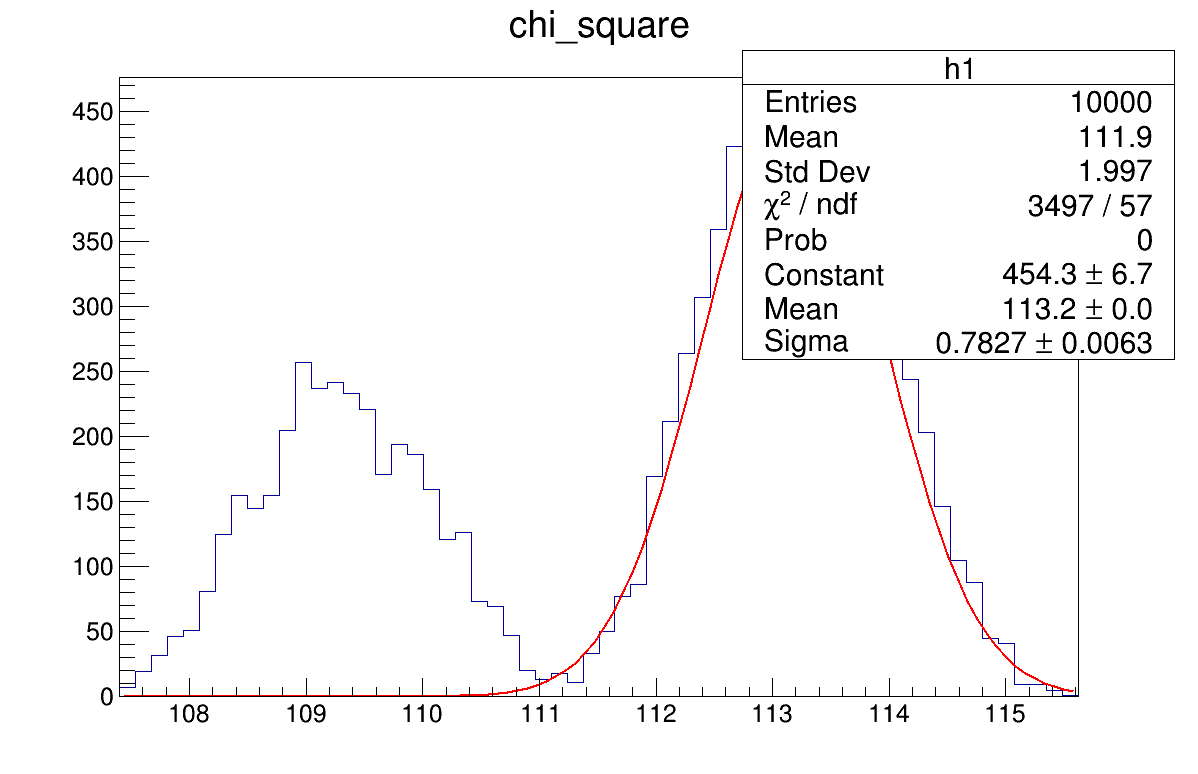
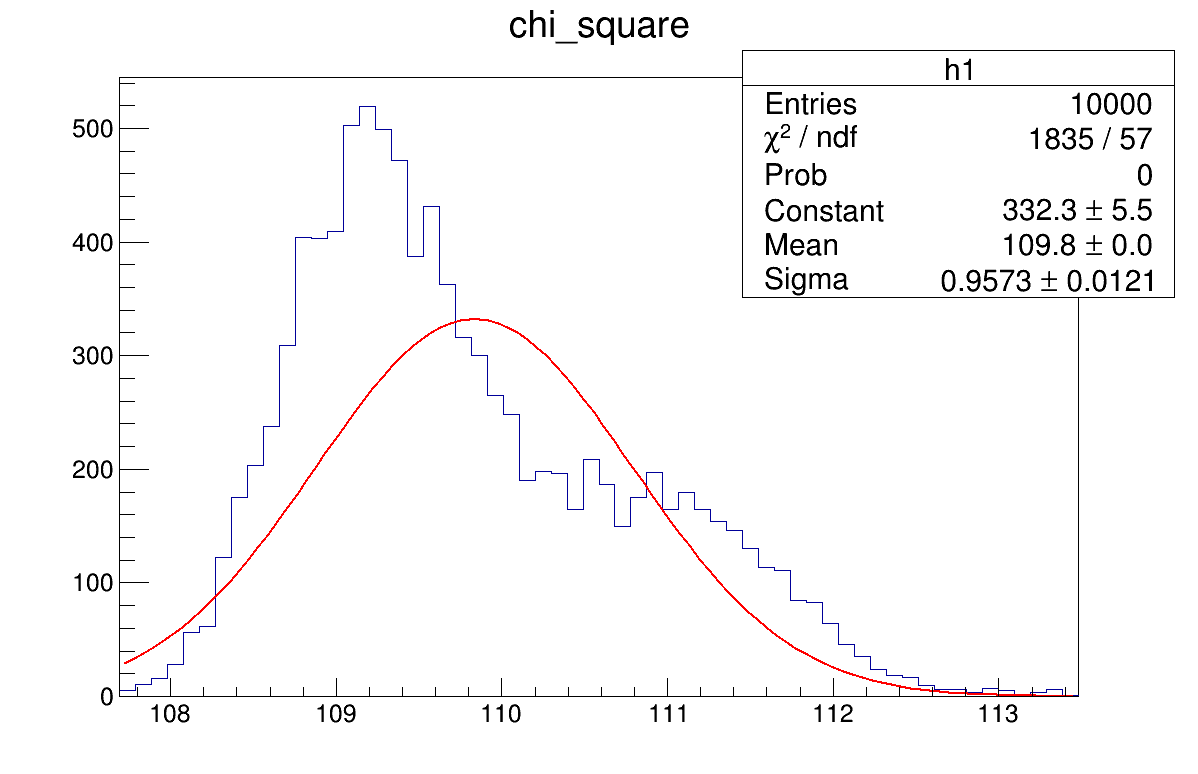
monte carlo now works!

diff --git a/monte_carlo/estimator.cpp b/monte_carlo/estimator.cpp
@@ -27,7 +27,7 @@ std:0.0109906
 
 using namespace std;
 
-double time_offset = 0.000;
+double time_offset = 0.00;
 
 
 void histo_populate(TH1F * h, int n_tot, double tau){
@@ -69,19 +69,20 @@ int main(int argc, char** argv)
 
     std::vector<double> tau;
     std::vector<double> chi_square;
-    int experiments = 100000;
-    int counts = 5000;
-
+    int experiments = 10000;
+    int counts = 100000;
+    gStyle->SetOptStat(11);
+    gStyle->SetOptFit(1111);
     TRandom3 * r = new TRandom3();
     int n = r->Poisson(counts);
 
     TF1 * func = new TF1("fun", "[0]*TMath::Exp(-x[0]/[1])",0.0+time_offset, 11);
-    func->SetParameter(0,counts/2);
-    func->SetParameter(1,2.1);
+    func->SetParameter(0,n/2);
+    func->SetParameter(1,2.100);
     // func->SetParameter(2,2.2);
     // func->SetParLimits(2,0.0,100);
 
-    // TApplication* myApp = new TApplication("myApp", NULL, NULL);
+    TApplication* myApp = new TApplication("myApp", NULL, NULL);
 
     // double f_mu_pos = r->Gaus(0.56075, 0.00087);
     double f_mu_pos = 0.56075;
@@ -89,12 +90,12 @@ int main(int argc, char** argv)
     double f_mu_neg = 1 - f_mu_pos;
 
     for(int i=0;i<experiments;i++){
-        TCanvas* cnv = new TCanvas(("myC1" + to_string(i)).c_str(),"myC1",10,10,1200,800);
+        // TCanvas* cnv1 = new TCanvas(("myC1" + to_string(i)).c_str(),"myC1",10,10,1200,800);
         // generate each pseudoexperiment
         // in a single experiment we populate an histogram with the histo_populate
         // method, we then fit this histogram in order to estimate tau,
         double min=0, max=11;
-        int bin = 20;
+        int bin = 100;
         TH1F *h = new TH1F("h", "example histogram",bin,min,max);
 
 
@@ -102,8 +103,8 @@ int main(int argc, char** argv)
 
 
         int mu_pos = (int) r->Binomial(n, f_mu_pos);
-        // int mu_neg = (int) r->Binomial(n, f_mu_neg);
-        int mu_neg = n - mu_pos;
+        int mu_neg = (int) r->Binomial(n, f_mu_neg);
+        // int mu_neg = n - mu_pos;
 
         // cout << mu_pos << " " << mu_neg << endl;
 
@@ -115,8 +116,9 @@ int main(int argc, char** argv)
         // histo_populate_background(h, 0.2*n);
 
 
-        // cnv->cd();
+        // cnv1->cd();
         // h->Draw();
+
         TFitResultPtr result = h->Fit(func, "SQR");
         if(result->Status()!=0){
             cout << "Error!" << endl;
@@ -128,7 +130,8 @@ int main(int argc, char** argv)
         chi_square.push_back(result->Chi2());
 
         delete h;
-
+        // cnv1->Modified();
+        // cnv1->Update();
     }
 
     double mu = mean(tau);
@@ -136,12 +139,12 @@ int main(int argc, char** argv)
 
     cout << "Tau statistics:\nmu:" << mu << "\nstd:" << std << endl;
 
-    TApplication* myApp = new TApplication("myApp", NULL, NULL);
+
     TCanvas* cnv = new TCanvas("myC1","myC1",10,10,1200,800);
     gStyle->SetOptFit(1111);
     double min = *min_element(tau.begin(), tau.end());
     double max = *max_element(tau.begin(), tau.end());
-    TH1F *h = new TH1F("h", "tau_MC",40, min, max);
+    TH1F *h = new TH1F("h", "tau_MC",50, min, max);
 
     for(double t: tau)   h->Fill(t);
 
@@ -152,18 +155,18 @@ int main(int argc, char** argv)
     cnv->Update();
     cnv->SaveAs("images/tau_MC.png");
 
-    // TCanvas* cnv1 = new TCanvas("myC2","myC2",10,10,1200,800);
-    // gStyle->SetOptFit(1111);
-    // double min1 = *min_element(chi_square.begin(), chi_square.end());
-    // double max1 = *max_element(chi_square.begin(), chi_square.end());
-    // TH1F *h1 = new TH1F("h1", "chi_square",60, min1, max1);
-    //
-    // for(double t: chi_square)   h1->Fill(t);
-    //
-    // h1-> Draw();
-    // h1->Fit(func2);
-    // cnv1->Modified();
-    // cnv1->Update();
-    // cnv1->SaveAs("images/chi_MC.png");
+    TCanvas* cnv1 = new TCanvas("myC2","myC2",10,10,1200,800);
+    gStyle->SetOptFit(1111);
+    double min1 = *min_element(chi_square.begin(), chi_square.end());
+    double max1 = *max_element(chi_square.begin(), chi_square.end());
+    TH1F *h1 = new TH1F("h1", "chi_square",60, min1, max1);
+
+    for(double t: chi_square)   h1->Fill(t);
+
+    h1-> Draw();
+    h1->Fit(func2);
+    cnv1->Modified();
+    cnv1->Update();
+    cnv1->SaveAs("images/chi_MC.png");
     myApp->Run();
 }
